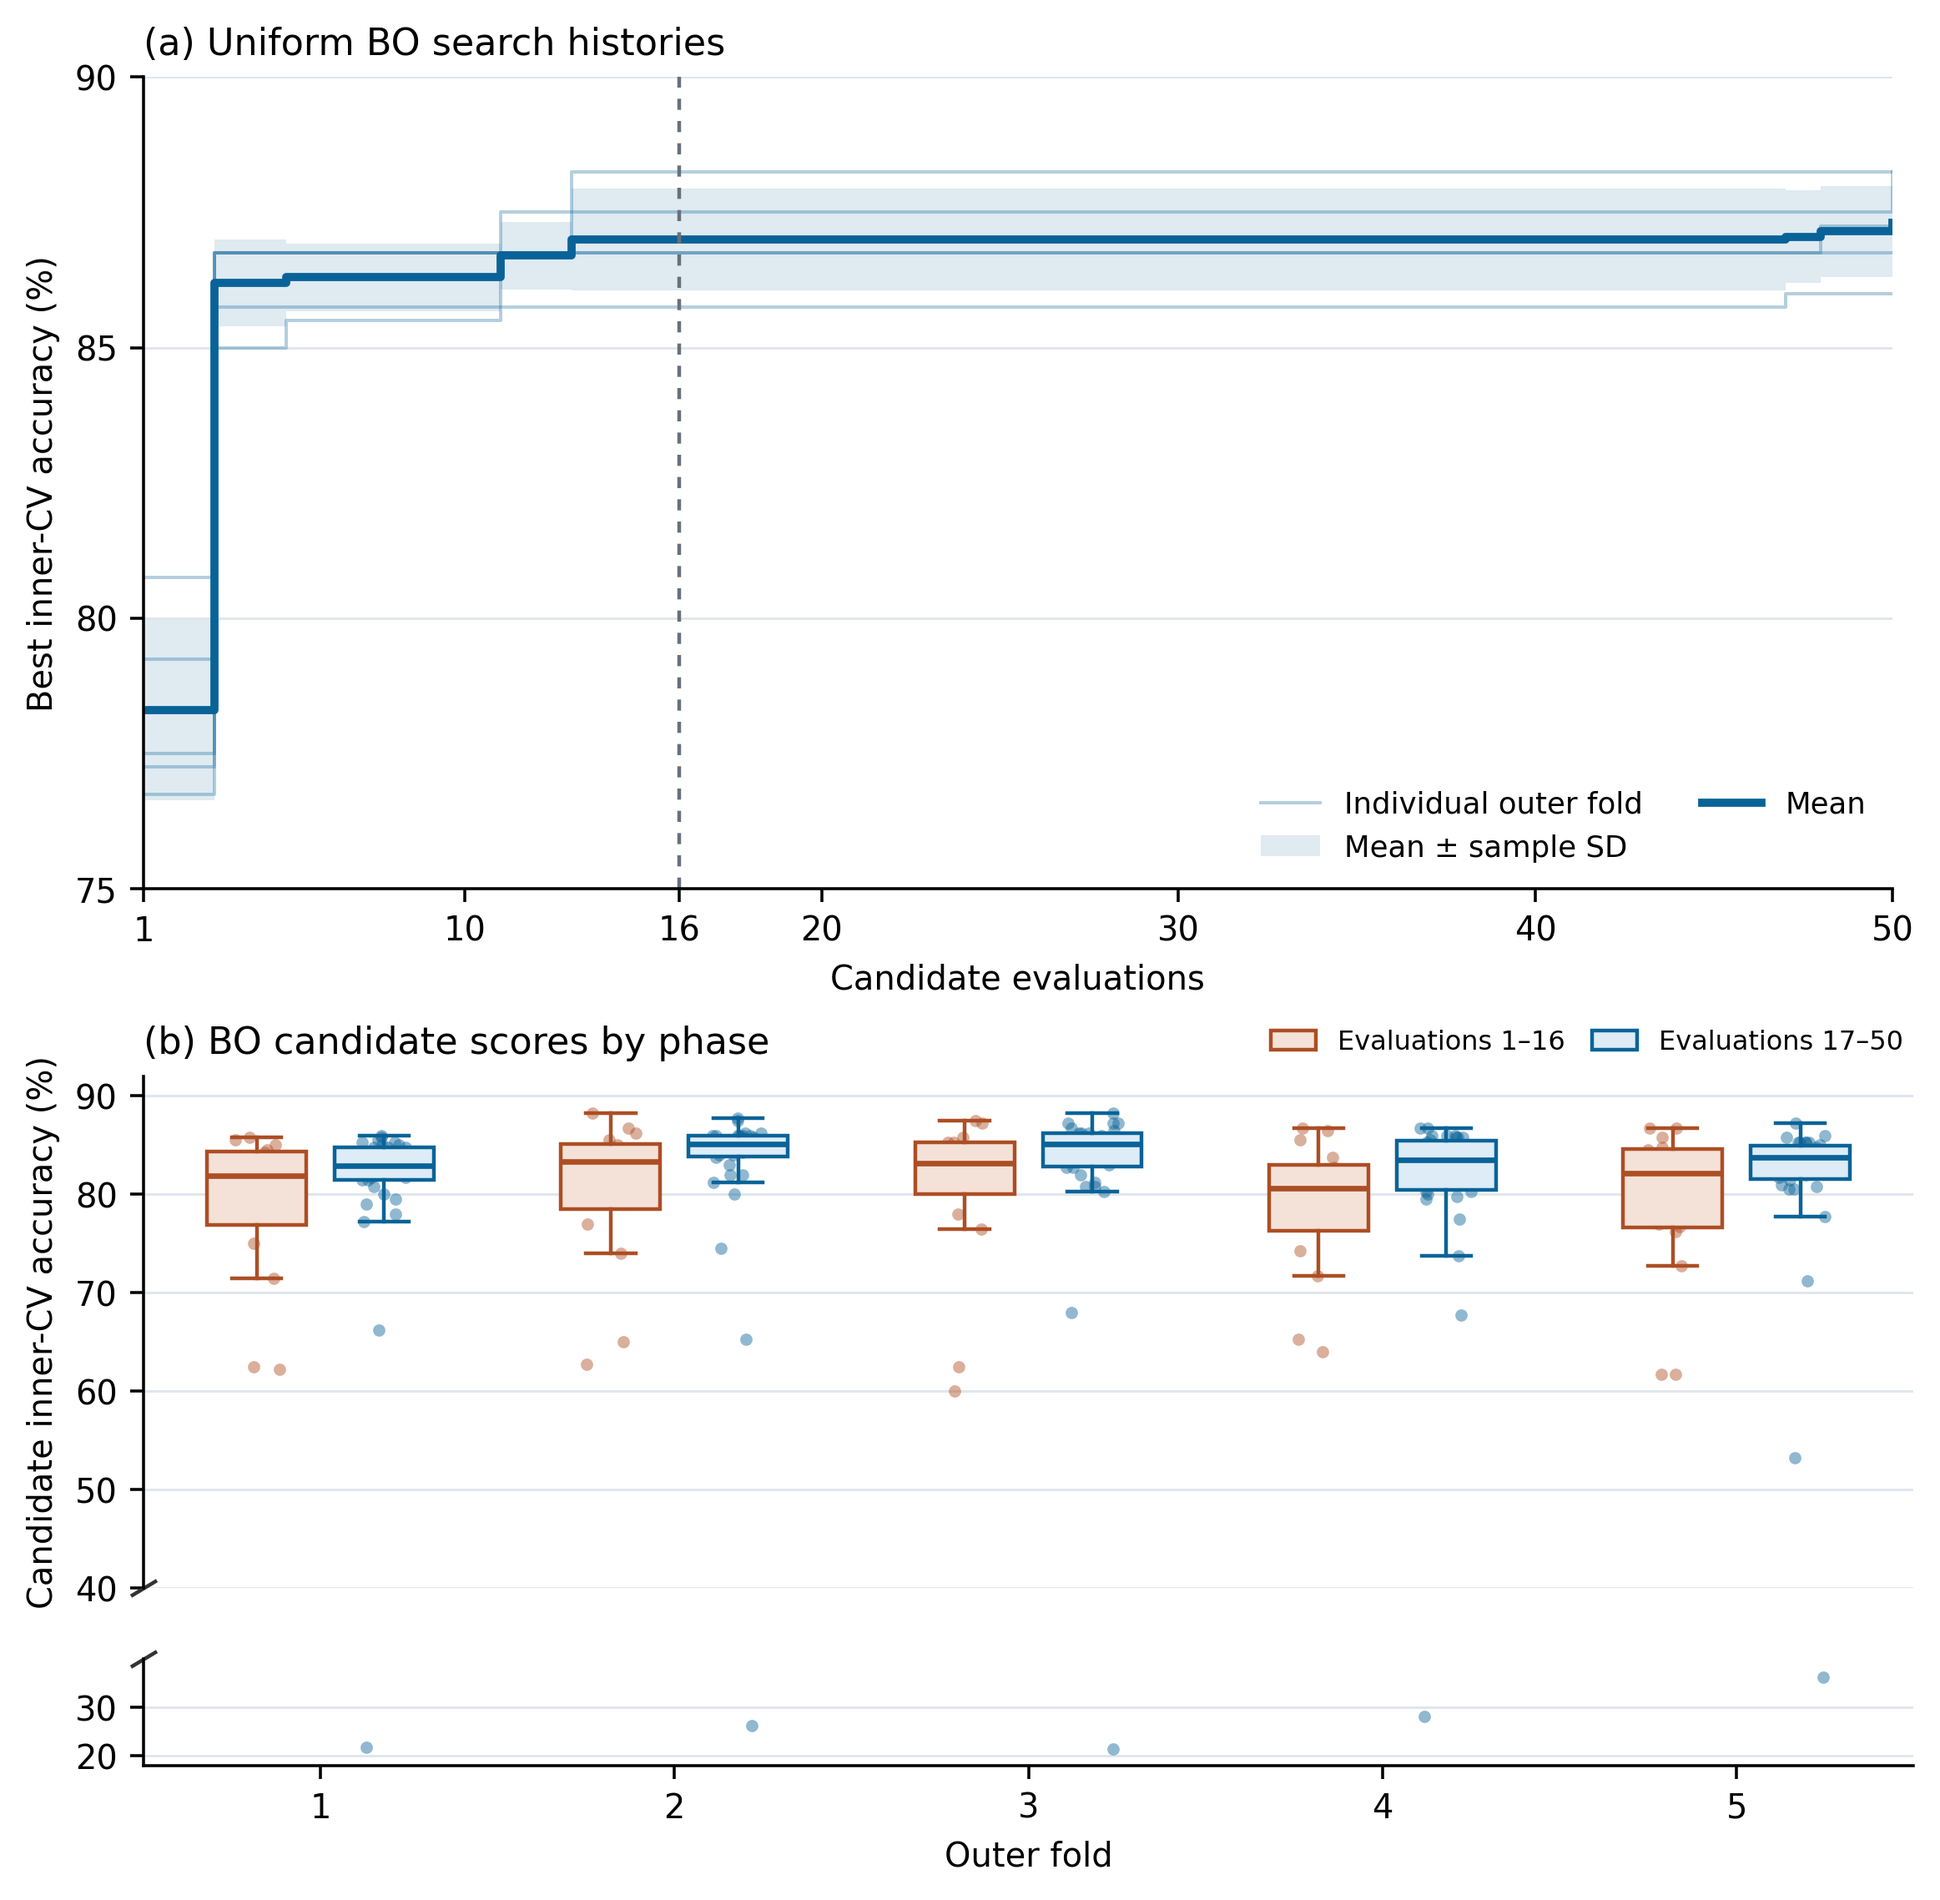
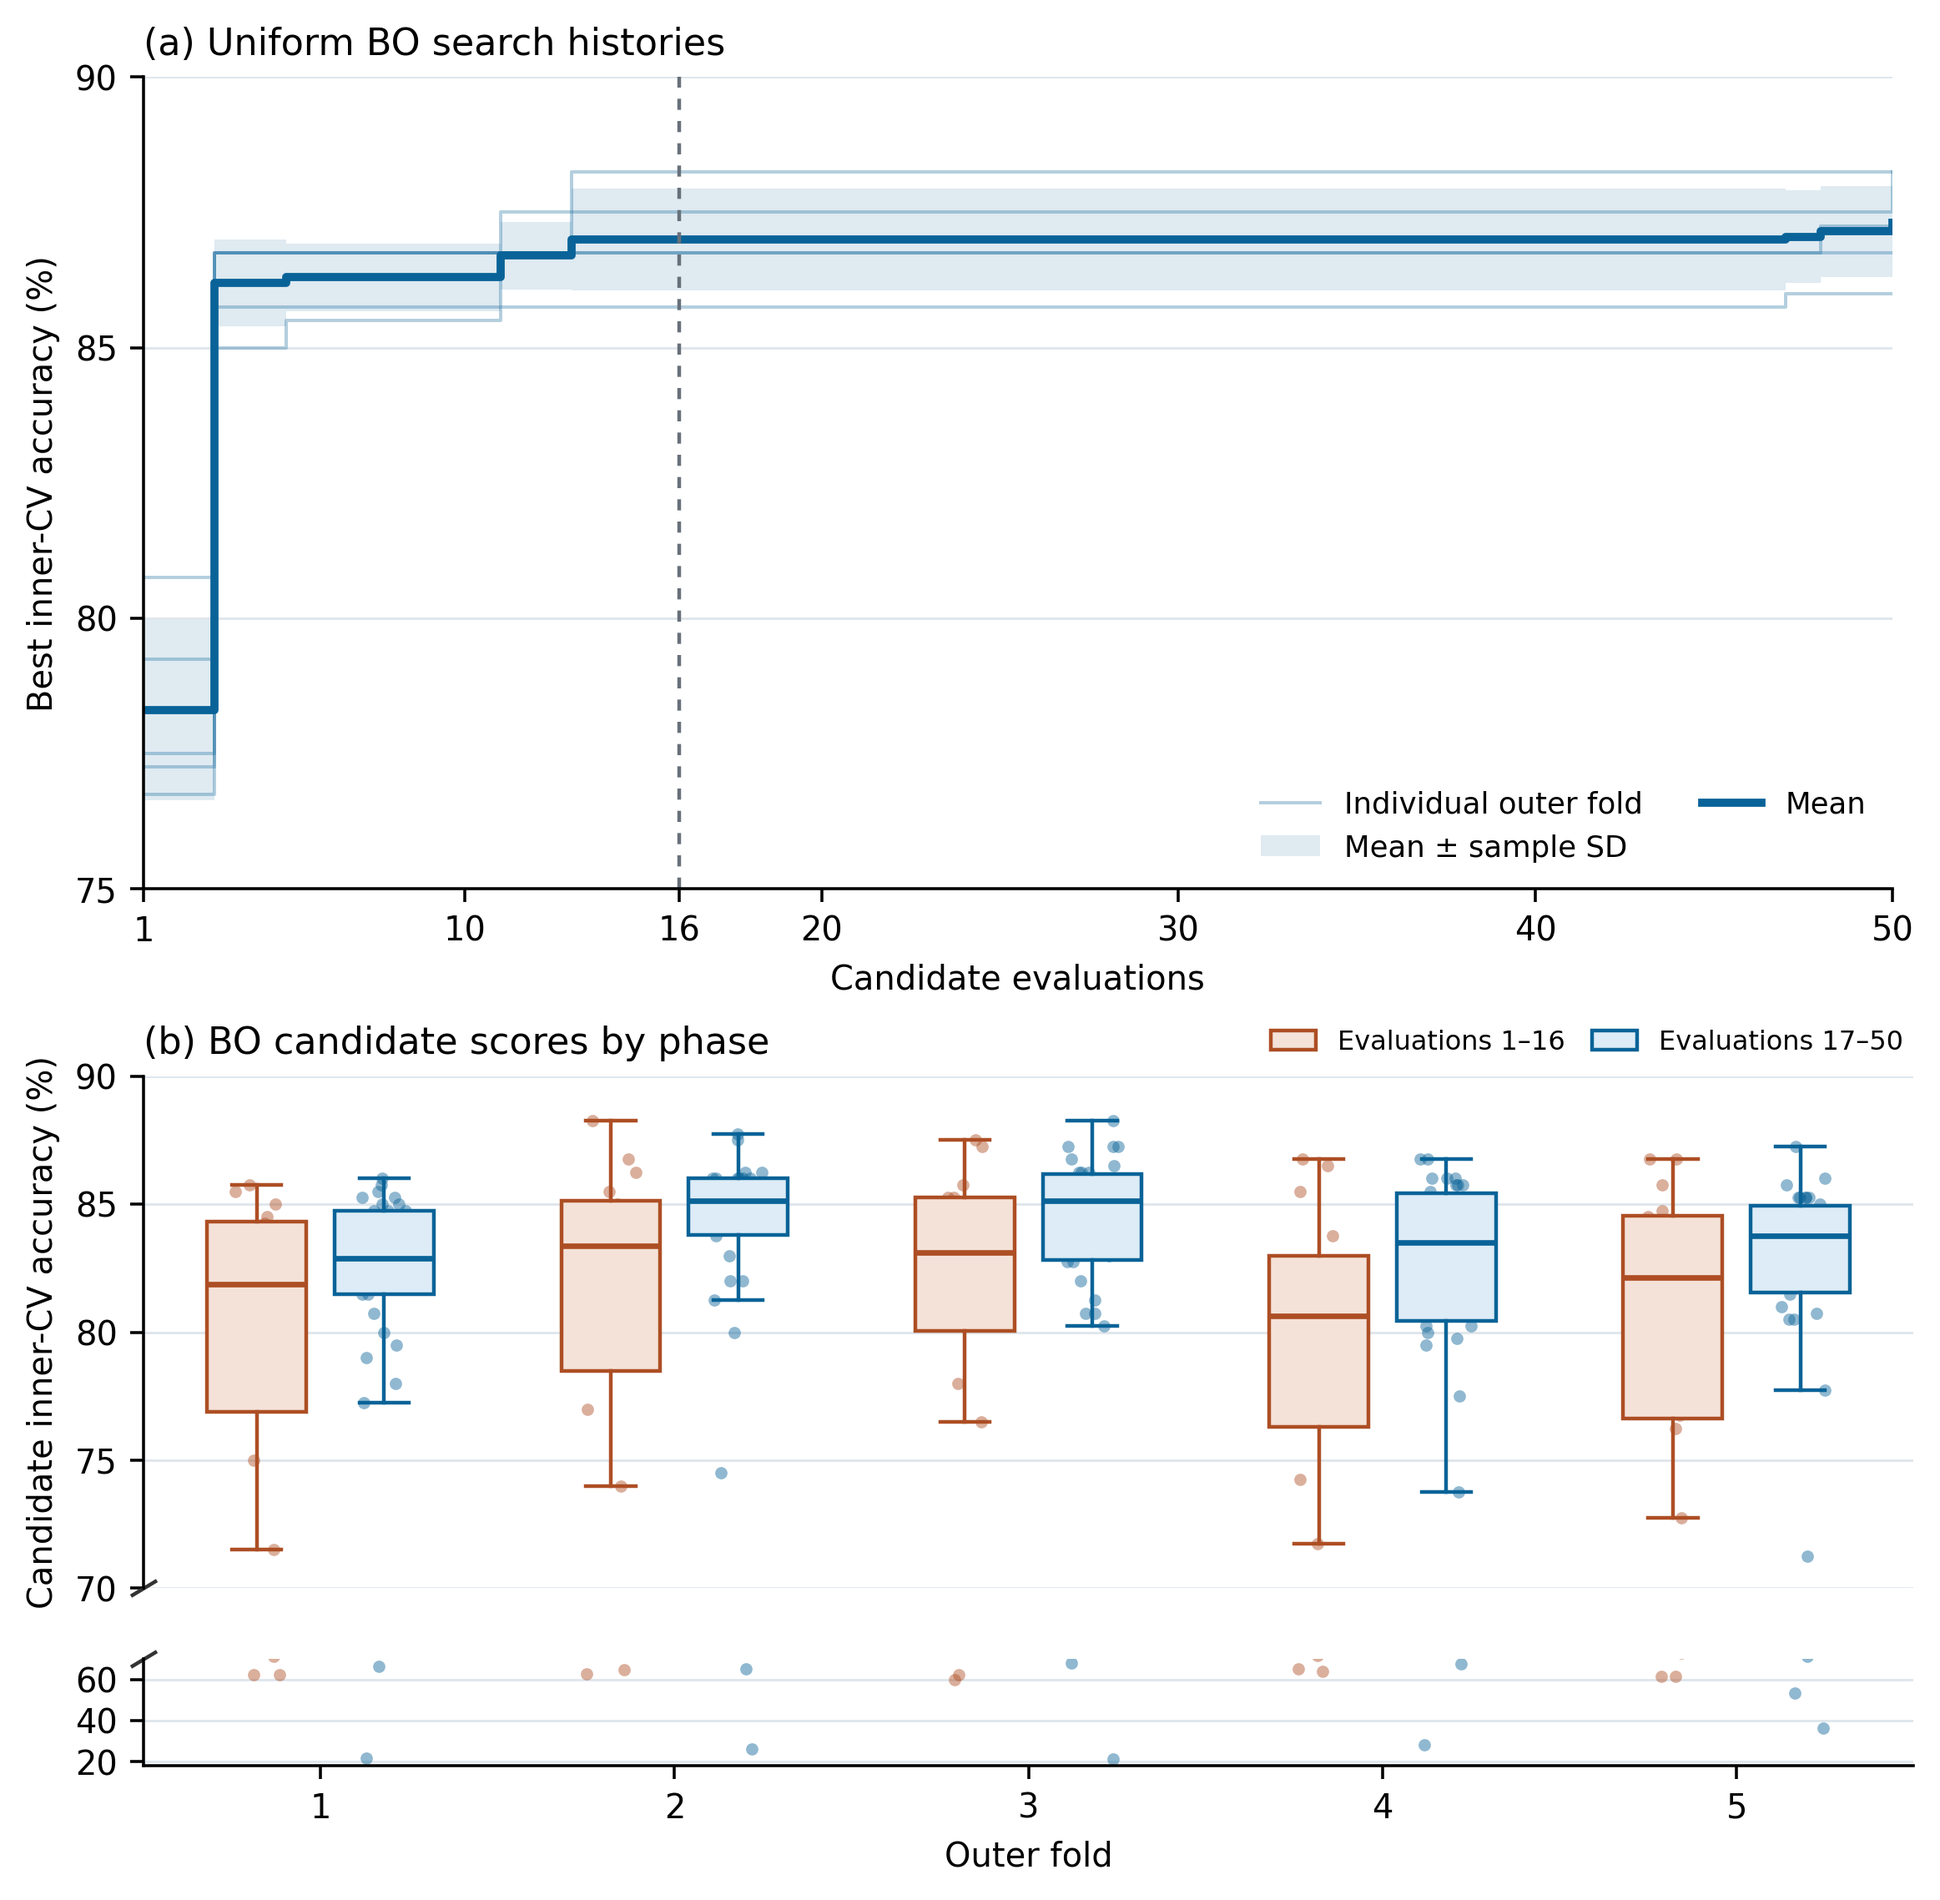
Focus BO phase boxplot axis on 70 to 90 percent

diff --git a/plot_nested_chapter5.py b/plot_nested_chapter5.py
@@ -81,9 +81,9 @@ def main(figure_51_only=False):
                        whiskerprops={'color': color}, capprops={'color': color})
             for position, run, noise in zip(positions+offset, values, jitter):
                 ax.scatter(position+noise, run, s=11, color=color, alpha=.45, linewidths=0)
-    upper.set(xlim=(.5, 5.5), ylim=(40, 92), yticks=range(40, 91, 10),
+    upper.set(xlim=(.5, 5.5), ylim=(70, 90), yticks=range(70, 91, 5),
               ylabel='Candidate inner-CV accuracy (%)')
-    lower.set(ylim=(18, 40), yticks=[20, 30], xticks=positions, xlabel='Outer fold')
+    lower.set(ylim=(18, 70), yticks=[20, 40, 60], xticks=positions, xlabel='Outer fold')
     upper.tick_params(axis='x', bottom=False, labelbottom=False)
     upper.spines['bottom'].set_visible(False)
     lower.spines['top'].set_visible(False)
